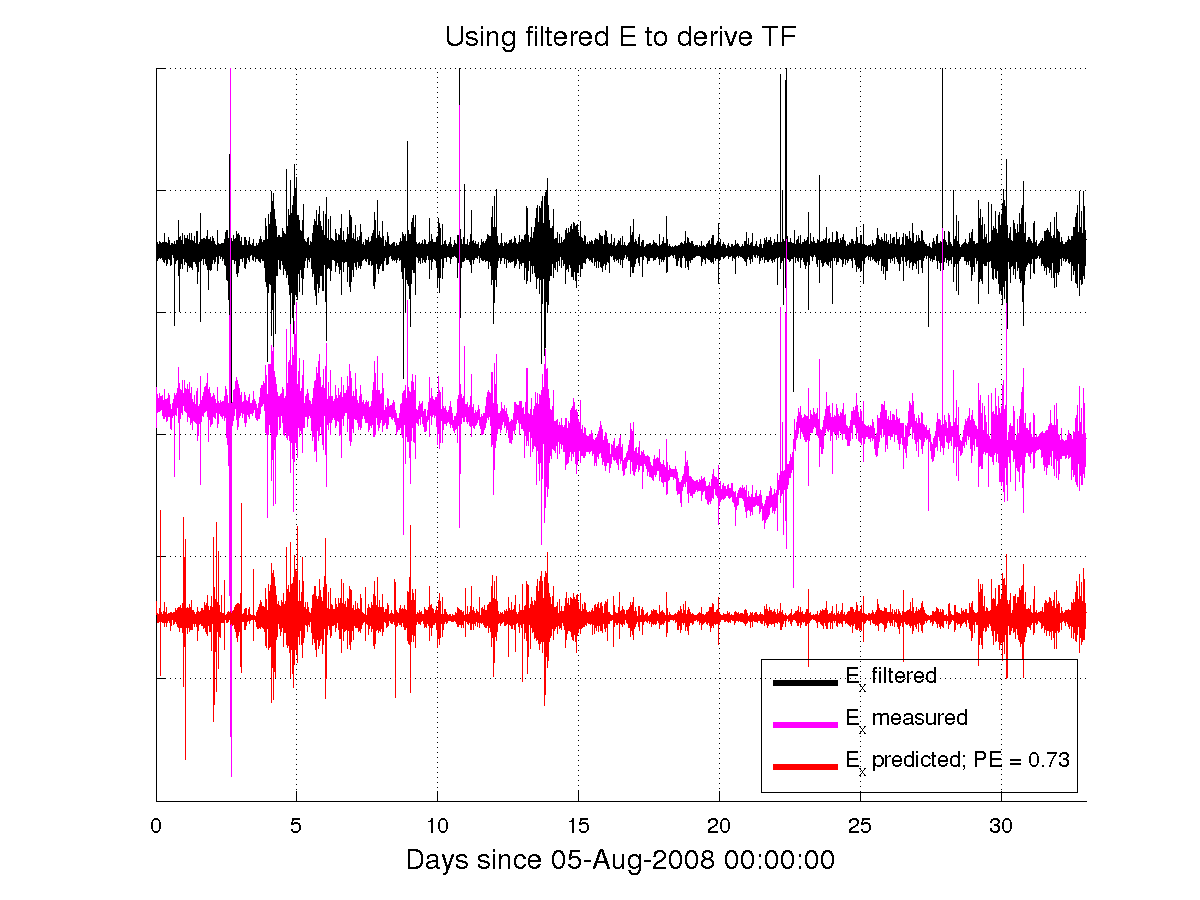
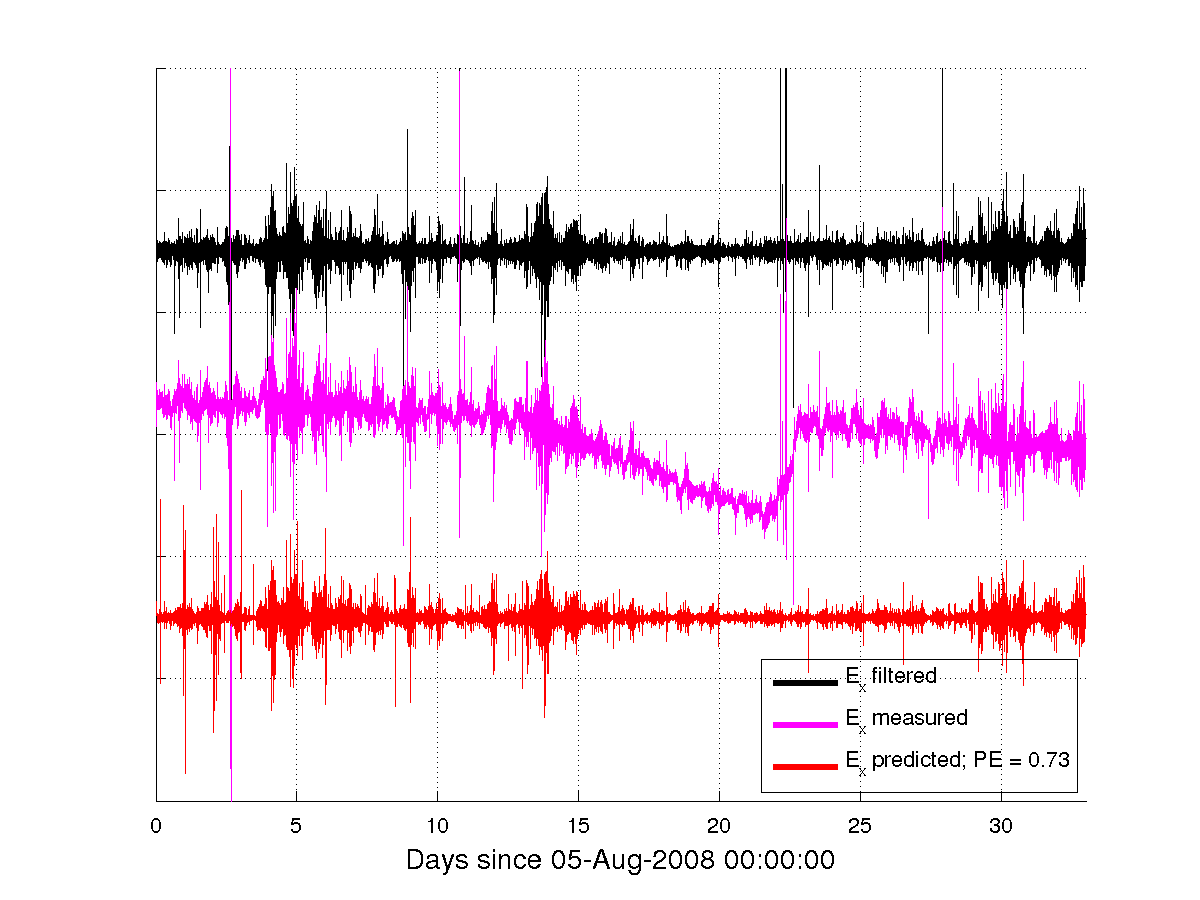
misc

diff --git a/gic/mainZ.m b/gic/mainZ.m
@@ -15,7 +15,6 @@ dim = 1;
 meth = 'rectangular';
 df   = 20;
 methstr = sprintf('Method = Rectangular; df = %d',df);
-%df = []; % Use points generated by evalfreq.
 
 meth = 'parzen';
 methstr = 'Method = Parzen';
@@ -39,14 +38,14 @@ Ite = [1:size(IN,1)];
 %Ite = [2*86400+1:size(IN,1)];
 
 if (1)
-    label = 'hp'
-    Nf      = 1600;
+    label   = 'hp'; 
+    Nf      = 800;
     tx      = exp(-[0:Nf]/Nf);
     Ef(:,1) = filter([0,tx/sum(tx)],1,E(:,1));
     Ef(:,2) = filter([0,tx/sum(tx)],1,E(:,2));
     tit     = 'Using filtered E to derive TF';
 else
-    label = 'nohp'
+    label = 'nohp';
     Ef    = 0*E;
     Nf    = 0;
     tit   = 'Using measured E to derive TF';
@@ -59,24 +58,17 @@ if strmatch('MBB05',short,'exact')
 
     fprintf('\n')
     fprintf('%s: Reading alternative transfer function.\n',n)
-
     D = readEDIXML('./data/iris/MBB05c_B6a.xml')
     feA = transpose(1./D.PERIOD);
     ZA  = transpose(D.Z);
+    % Z units are [mV/km]/[nT] (see xml file)
 
-    %ZAo  = transpose(D.Z);
-    % Zxx: ZAo(:,1)
-    % Zxy: ZAo(:,2)
-    % Zyy: ZAo(:,3)
-    % Zyx: ZAo(:,4)
-    % y = east, x = north
+    % Zxx Zxy Zyx Zyy -> -(Zyy Zyx Zxy Zxx)
+    % Unless this is done, predictions using OSU model are very poor
+    % (PE < 0) and inconsistencies with my calculation of Z (Zxx and Zyy are reversed)    
+    ZA = -fliplr(ZA);
 
-    %ZA(:,1) = ZAo(:,3);
-    %ZA(:,2) = ZAo(:,4);
-    %ZA(:,3) = ZAo(:,1);
-    %ZA(:,4) = ZAo(:,2);
-
-    % Order Z by increasing frequency.
+    % Order fe and Z by increasing frequency.
     [feA,I] = sort(feA);
     ZA = ZA(I,:);
 
@@ -98,30 +90,17 @@ if strmatch('MBB05',short,'exact')
     fprintf('%s: Computing predictions.\n',n)
     % Predict using interpolated transfer function
 
-    %New calculation
-    %E(:,1) = B(:,1)*ZA(:,1)+B(:,2)*ZA(:,2))
-    %E(:,2) = B(:,1)*ZA(:,3)+B(:,2)*ZA(:,4))
-    %ZA(:,1) = ZAo(:,3);
-    %ZA(:,2) = ZAo(:,4);
-    %ZA(:,3) = ZAo(:,1);
-    %ZA(:,4) = ZAo(:,2);
-
-    %EpA = Zpredict(feA,ZA,B(:,1:2));
-
-    %Calculation that works
-    %E(:,1) = -(B(:,2)*ZAo(:,1)+B(:,1)*ZAo(:,2))
-    %E(:,2) = -(B(:,2)*ZAo(:,3)+B(:,1)*ZAo(:,4))
-
-    EpA = Zpredict(feA,ZA,[B(:,2),B(:,1)]);
+    EpA = Zpredict(feA,ZA,[B(:,1),B(:,2)]);
 
     EpA = real(EpA);
 
-    tmp = EpA;
-    EpA(:,1) = -1e3*tmp(:,2);
-    EpA(:,2) = -1e3*tmp(:,1);
+    % EpA has units of [mV/km]/[nT] * [T]
+    % Convert to V/m, units of measurement of E.
+    EpA(:,1) = 1e3*EpA(:,1);
+    EpA(:,2) = 1e3*EpA(:,2);
 
-    pevA(1) = pe(E(:,1),EpA(:,1))
-    pevA(2) = pe(E(:,2),EpA(:,2))
+    pevA(1) = pe(E(:,1),EpA(:,1));
+    pevA(2) = pe(E(:,2),EpA(:,2));
     fprintf('%s: OSU\n',n);
     fprintf('%s: x: Nf = %04d\tpe = %0.2f\n',n,Nf,pevA(1))
     fprintf('%s: y: Nf = %04d\tpe = %0.2f\n',n,Nf,pevA(2))
@@ -184,10 +163,10 @@ if (0)
     feR = feR(I);
 end
 
-HR       = Z2H(feR,ZR,f);
-HR       = fftshift(HR,1);
-NR       = (size(HR,1)-1)/2;
-tR       = [-NR:NR]';
+HR = Z2H(feR,ZR,f);
+HR = fftshift(HR,1);
+NR = (size(HR,1)-1)/2;
+tR = [-NR:NR]';
 
 % Apparent Resistivity
 for k = 1:size(ZR,2)
@@ -221,7 +200,8 @@ fprintf('%s: x: Nf = %04d\tpe = %0.2f\n',n,Nf,pev(1))
 fprintf('%s: y: Nf = %04d\tpe = %0.2f\n',n,Nf,pev(2))
 fprintf('\n')
 
-fn = 0; % Figure number
+% Figure number
+fn = 0;
 
 if (0)
     fn = fn+1;
@@ -233,11 +213,11 @@ if (0)
         plot(tR/60,HR(:,4),'r','LineWidth',2)
         title(tit)
         legend('H_{xx}','H_{xy}','H_{yx}','H_{yy}')
-        %set(gca,'XLim',[-10 20])
-        %set(gca,'XTick',[-10:5:20])
+        set(gca,'XLim',[-10 20])
+        set(gca,'XTick',[-10:5:20])
         xlabel('t [min]')
-        %fname = sprintf('%s_H_%s-%s',short,ts1,ts2);
-        %plotcmds(fname,writeimgs)
+        fname = sprintf('%s_H_%s-%s',short,ts1,ts2);
+        plotcmds(fname,writeimgs)
 
     fn = fn+1;
     figure(fn);clf;
@@ -254,8 +234,8 @@ if (0)
         title(tit)
         legend('Z_{xx}','Z_{xy}','Z_{yx}','Z_{yy}')
         xlabel('f [Hz]')
-        %fname = sprintf('%s_Z_vs_f_%s-%s',short,ts1,ts2);
-        %plotcmds(fname,writeimgs)
+        fname = sprintf('%s_Z_vs_f_%s-%s',short,ts1,ts2);
+        plotcmds(fname,writeimgs)
 
     fn = fn+1;
     figure(fn);clf;
@@ -272,38 +252,32 @@ if (0)
         title(tit)
         legend('Z_{xx}','Z_{xy}','Z_{yx}','Z_{yy}','Location','SouthEast')
         xlabel('T [s]')
-        %fname = sprintf('%s_Z_vs_T_%s-%s',short,ts1,ts2);
-        %plotcmds(fname,writeimgs)
+        fname = sprintf('%s_Z_vs_T_%s-%s',short,ts1,ts2);
+        plotcmds(fname,writeimgs)
+
+    b = logspace(-7,-4);
+    [NA,xA]   = hist(EpA(:,1)*1e3,b);
+    [NU1,xU1] = hist(EpU1(:,1),b);
+    [NU2,xU2] = hist(EpU2(:,1),b);
+    [NM,xM]   = hist(E(:,1)+Ef(:,1),b)
+     
+    fn = fn+1;
+    figure(fn);
+        clf;
+        loglog(xM,NM,'k.','MarkerSize',20);hold on;grid on;
+        loglog(xA,NA,'rx','MarkerSize',10);
+        loglog(xU1,NU1,'g.','MarkerSize',20)
+        loglog(xU2,NU2,'b.','MarkerSize',20)
+        legend('Measured','OSU','USGS CP-1','USGS PT-1')
+        xlabel('E_x [V/m]')
+        ylabel('# in bin')
+
 end
 
-if (0)
-b = logspace(-7,-4);
-[NA,xA]   = hist(EpA(:,1)*1e3,b);
-[NU1,xU1] = hist(EpU1(:,1),b);
-[NU2,xU2] = hist(EpU2(:,1),b);
-[NM,xM]   = hist(E(:,1)+Ef(:,1),b)
- 
 fn = fn+1;
 figure(fn);
+    % Compare only USGS and OSU
     clf;
-    loglog(xM,NM,'k.','MarkerSize',20);hold on;grid on;
-    loglog(xA,NA,'rx','MarkerSize',10);
-    loglog(xU1,NU1,'g.','MarkerSize',20)
-    loglog(xU2,NU2,'b.','MarkerSize',20)
-    legend('Measured','OSU','USGS CP-1','USGS PT-1')
-    xlabel('E_x [V/m]')
-    ylabel('# in bin')
-end
-
-fn = fn+1;
-figure(fn);
-    clf;
-    %loglog(1./feR(2:end),10^(-3)*2*pi*feR(2:end).*abs(ZR(2:end,1)),'m','LineWidth',2);
-    %loglog(1./feR(2:end),10^(-3)*2*pi*feR(2:end).*abs(ZR(2:end,3)),'b','LineWidth',2);
-    %hold on;grid on;
-    %loglog(1./feR(2:end),10^(-3)*2*pi*feR(2:end).*abs(ZR(2:end,2)),'k','LineWidth',2);
-    %loglog(1./feR(2:end),10^(-3)*2*pi*feR(2:end).*abs(ZR(2:end,4)),'r','LineWidth',2);
-    %title(tit)
     loglog(1./f(1:10:end),abs(ZU1(1:10:end)),'r-','LineWidth',2,'MarkerSize',10);
     hold on;grid on;
     loglog(1./f(1:10:end),abs(ZU2(1:10:end)),'g-','LineWidth',2,'MarkerSize',10);
@@ -311,44 +285,17 @@ figure(fn);
     loglog(1./feA(2:end),abs(ZA(2:end,2)),'b.','MarkerSize',20);
     loglog(1./feA(2:end),abs(ZA(2:end,3)),'k.','MarkerSize',20);
     loglog(1./feA(2:end),abs(ZA(2:end,4)),'r.','MarkerSize',20);
-    %legend('Z_{xy}','Z_{yx}','Z_{xy} OSU','Z_{yx} OSU')
+    loglog(1./feR(2:end),10^(-3)*2*pi*feR(2:end).*abs(ZR(2:end,1)),'m','LineWidth',2);
+    loglog(1./feR(2:end),10^(-3)*2*pi*feR(2:end).*abs(ZR(2:end,2)),'b','LineWidth',2);
+    loglog(1./feR(2:end),10^(-3)*2*pi*feR(2:end).*abs(ZR(2:end,3)),'k','LineWidth',2);
+    loglog(1./feR(2:end),10^(-3)*2*pi*feR(2:end).*abs(ZR(2:end,4)),'r','LineWidth',2);
+
     xlabel('T [s]')
-
-    legend('Z_0 USGS CP-1','Z_0 USGS PT-1','Z_{xx} OSU','Z_{xy} OSU','Z_{yx} OSU','Z_{yy} OSU')
-
     ylabel('[mV/km/nT]')
-    fname = sprintf('%s_%s_Z_vs_T_OSU_USGS_%s-%s',short,label,ts1,ts2);
-    plotcmds(fname,writeimgs)
-
-fn = fn+1;
-figure(fn);clf;
-    %loglog(1./feR(2:end),10^(-3)*2*pi*feR(2:end).*abs(ZR(2:end,1)),'m','LineWidth',2);
-    loglog(1./feR(2:end),10^(-3)*2*pi*feR(2:end).*abs(ZR(2:end,3)),'b','LineWidth',2);
-    hold on;grid on;
-    loglog(1./feR(2:end),10^(-3)*2*pi*feR(2:end).*abs(ZR(2:end,2)),'k','LineWidth',2);
-    %loglog(1./feR(2:end),10^(-3)*2*pi*feR(2:end).*abs(ZR(2:end,4)),'r','LineWidth',2);
-    %loglog(1./f(2:end),abs(ZRi(2:end,1)),'k.');
-    title(tit)
-    xlabel('T [s]')
-
-%    plot(1./feA(2:end),abs(ZA(2:end,2)),'b.','MarkerSize',20);
-%    hold on;
-%    plot(1./f(2:end),abs(ZAi(2:end,2)),'b.','MarkerSize',1);
-
-    %loglog(1./feA,abs(ZA(:,1)),'m.','MarkerSize',20);
-    loglog(1./feA(2:end),abs(ZA(2:end,2)),'b.','MarkerSize',20);
-    %hold on;
-    %loglog(1./f(2:end),abs(ZAi(2:end,2)),'b.','MarkerSize',1);
-    loglog(1./feA,abs(ZA(:,3)),'k.','MarkerSize',20);
-    %loglog(1./feA,abs(ZA(:,4)),'r.','MarkerSize',20);
-    %legend('Z_{xy}','Z_{yx}','Z_{xy} OSU','Z_{yx} OSU')
-
-    loglog(1./f(1:10:end),abs(ZU1(1:10:end)),'r.','MarkerSize',10);
-    loglog(1./f(1:10:end),abs(ZU2(1:10:end)),'g.','MarkerSize',10);
-    legend('Z_{xy}','Z_{yx}','Z_{xy} OSU','Z_{yx} OSU','Z USGS CP1','Z USGS PT1')
-
-    ylabel('[mV/km/nT]')
-    fname = sprintf('%s_%s_Z_vs_T_%s-%s',short,label,ts1,ts2);
+    legend('Z_0 USGS CP-1','Z_0 USGS PT-1',...
+           'Z_{xx} OSU','Z_{xy} OSU','Z_{yx} OSU','Z_{yy} OSU',...
+           'Z_{xx}','Z_{xy}','Z_{yx}','Z_{yy}')
+    fname = sprintf('%s_%s_Z_vs_T_All_%s-%s',short,label,ts1,ts2);
     plotcmds(fname,writeimgs)
 
 % Plot B
@@ -367,22 +314,20 @@ figure(fn);clf;
     fname = sprintf('%s_Bx_By_%s-%s',short,ts1,ts2);
     plotcmds(fname,writeimgs)
 
-% Plot E
-for i = 1:1
+% Plot Ex and Ey
+for i = 1:2
     fn = fn+1;
     figure(fn);clf;
         hold on;grid on;
         comp = 'x';if (i == 2),comp = 'y';end        
-        plot(1,NaN,'k','LineWidth',3)  
         plot(1,NaN,'m','LineWidth',3)  
+        plot(1,NaN,'k','LineWidth',3)  
         hold on;grid on;
-        plot(t,E(:,i)+5e-5,'k') % Filtered
-        a = E(:,i)+Ef(:,i);
-        plot(t,a,'m'); % Measured
+        plot(t,(E(:,i)+Ef(:,i))*1e6,'m'); % Measured
+        plot(t,E(:,i)*1e6,'k') % Filtered
         xlabel(xlab)
-        ylabel('[V/m]')
-        %title(tit)
-        legend('E_x filtered (shifted)','E_x measured')
+        ylabel('[mV/km]')
+        legend(['E_',comp,' measured'],['E_',comp,' filtered'])
         fname = sprintf('%s_%s_E%s_vs_Efiltered_%s-%s',short,label,comp,ts1,ts2);
         plotcmds(fname,writeimgs)
 end
@@ -411,7 +356,7 @@ for i = 1:1
         plot(t,b/std(E(:,i)) - 30,'r')
         xlabel(xlab)
         set(gca,'YTickLabel',[])
-        title(tit)
+        %title(tit)
         axis([0 t(end) -60 60])
         comp = 'x';if (i == 2),comp = 'y';end
         if (strmatch(label,'hp','exact'))
@@ -455,7 +400,7 @@ for i = 1:1
         plot(t,EpU2(:,i),'Color',[0.5,0.5,0.5])
         xlabel(xlab)
 %        set(gca,'YTickLabel',[])
-        title(tit)
+%        title(tit)
 %        axis([0 t(end) -50 50])
         comp = 'x';if (i == 2),comp = 'y';end
         legend(...
@@ -472,8 +417,6 @@ for i = 1:1
     fname = sprintf('%s_%s_E%s_predicted_%s-%s',short,label,comp,ts1,ts2);
     plotcmds(fname,writeimgs)
 end
-break
-
 
 break
 fn = fn+1;

diff --git a/gic/mainPrepare.m b/gic/mainPrepare.m
@@ -15,8 +15,8 @@ if strcmp('MBB05',short)
         mainPrepareIRIS(sta,start,stop,chas);
     end
     load(fname)
-    Bi = D(:,1:3);
-    Ei = D(:,4:5);
+    Bi = D(:,1:3); % in T
+    Ei = D(:,4:5); % in V/m - see, e.g., header of data/iris/MBB05/MBB05_LQE_2009-05-24.txt
     dBi = diff(Bi);
     dBi = [dBi;dBi(end,:)];
     return
